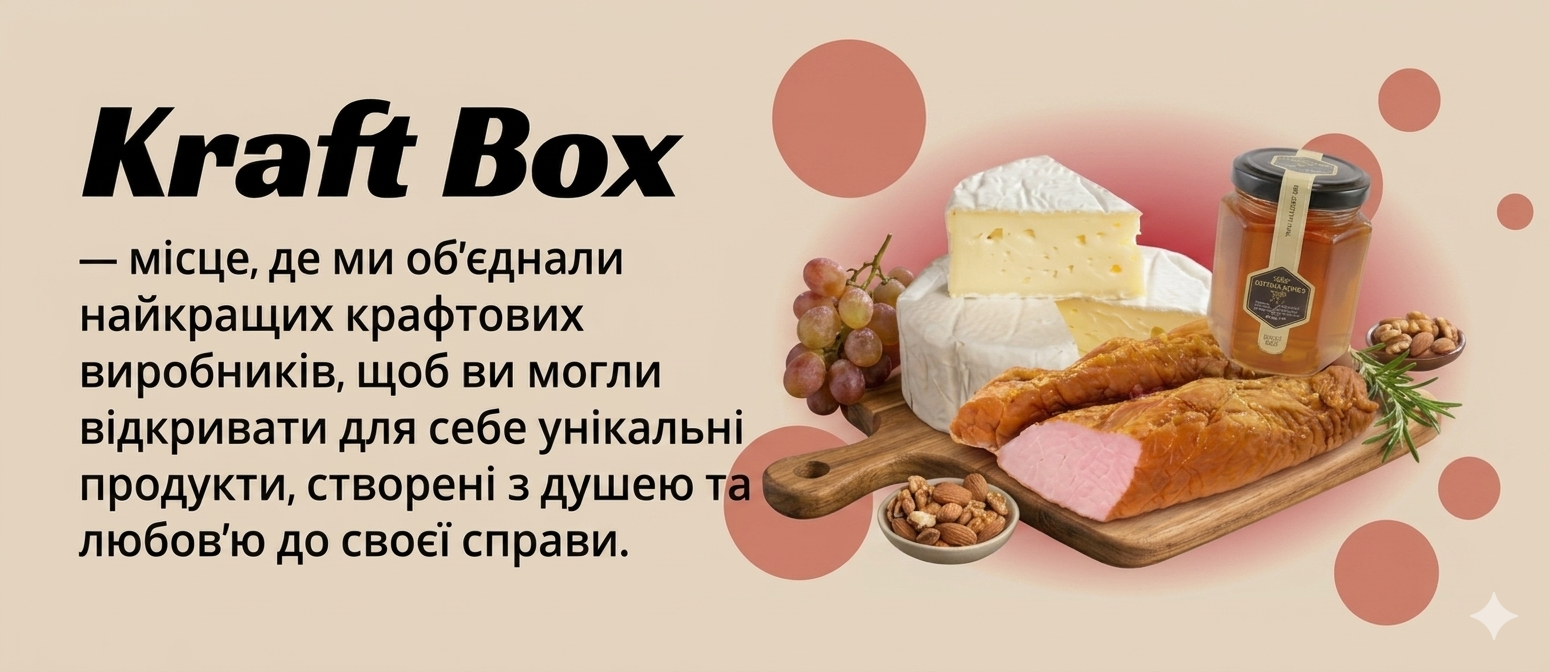
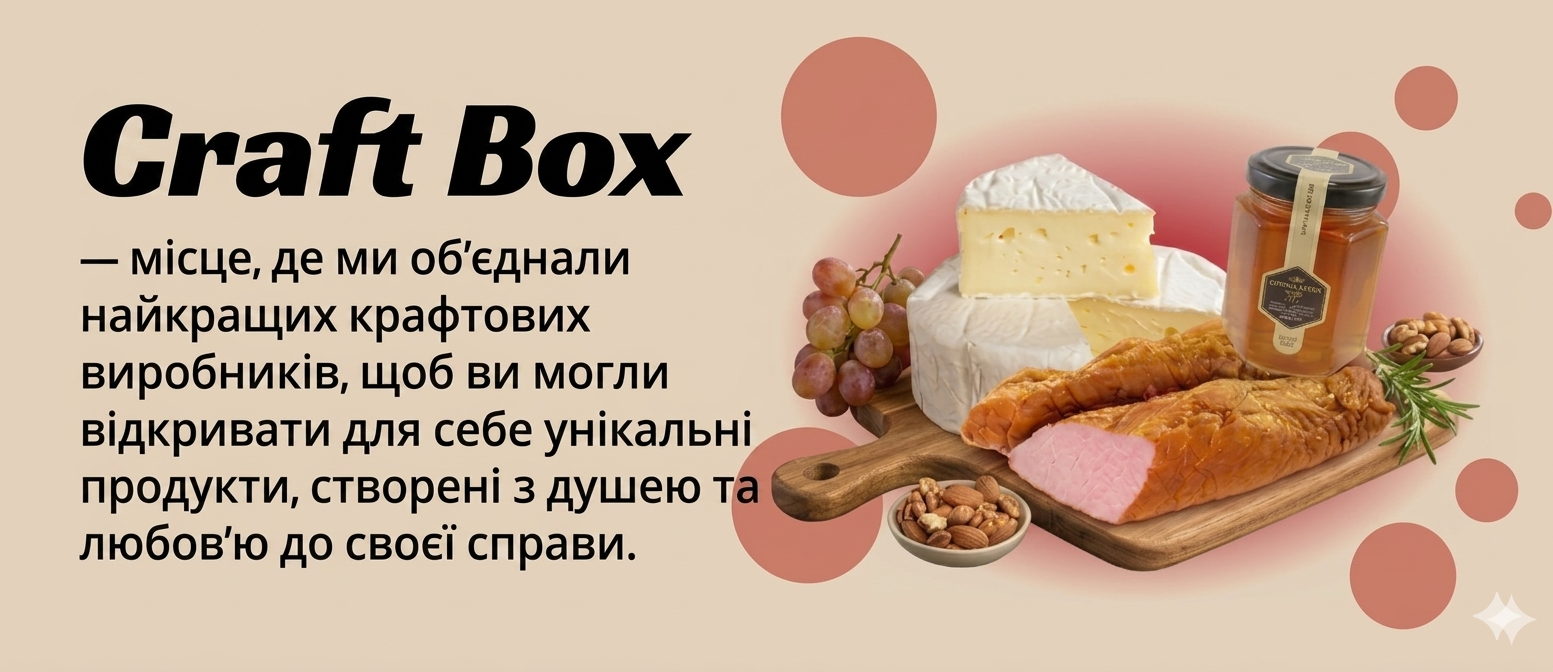
update name site

diff --git a/index.php b/index.php
@@ -9,7 +9,7 @@
 <body>
 
     <div class="header-logo">
-        <h1>Kraft Box</h1>
+        <h1>Craft Box</h1>
     </div>
 
     <div class="user-menu">
@@ -26,7 +26,7 @@
 
 <!-- Оновлений блок Hero -->
 <div class="hero-banner">
-    <img src="uploads/own.png" alt="Kraft Box Banner">
+    <img src="uploads/own.png" alt="Craft Box Banner">
 </div>
     </div>
 